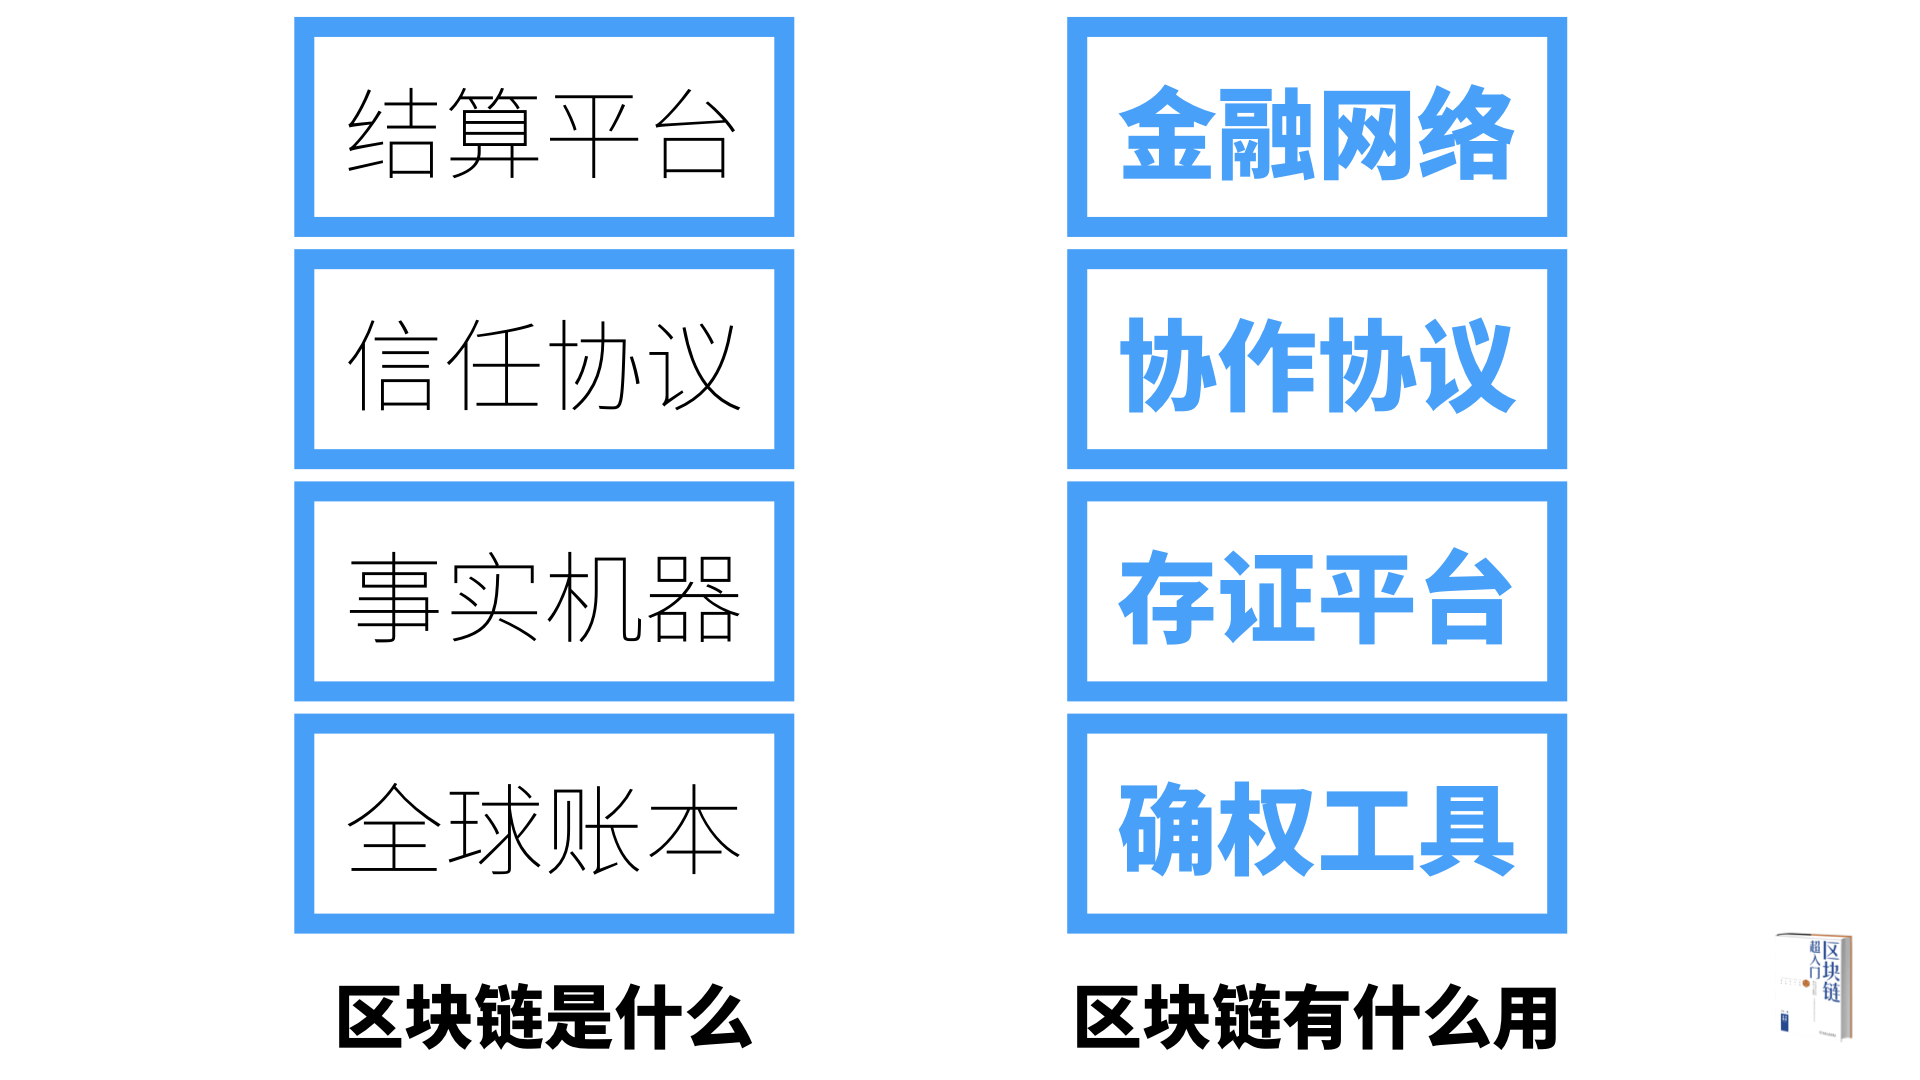
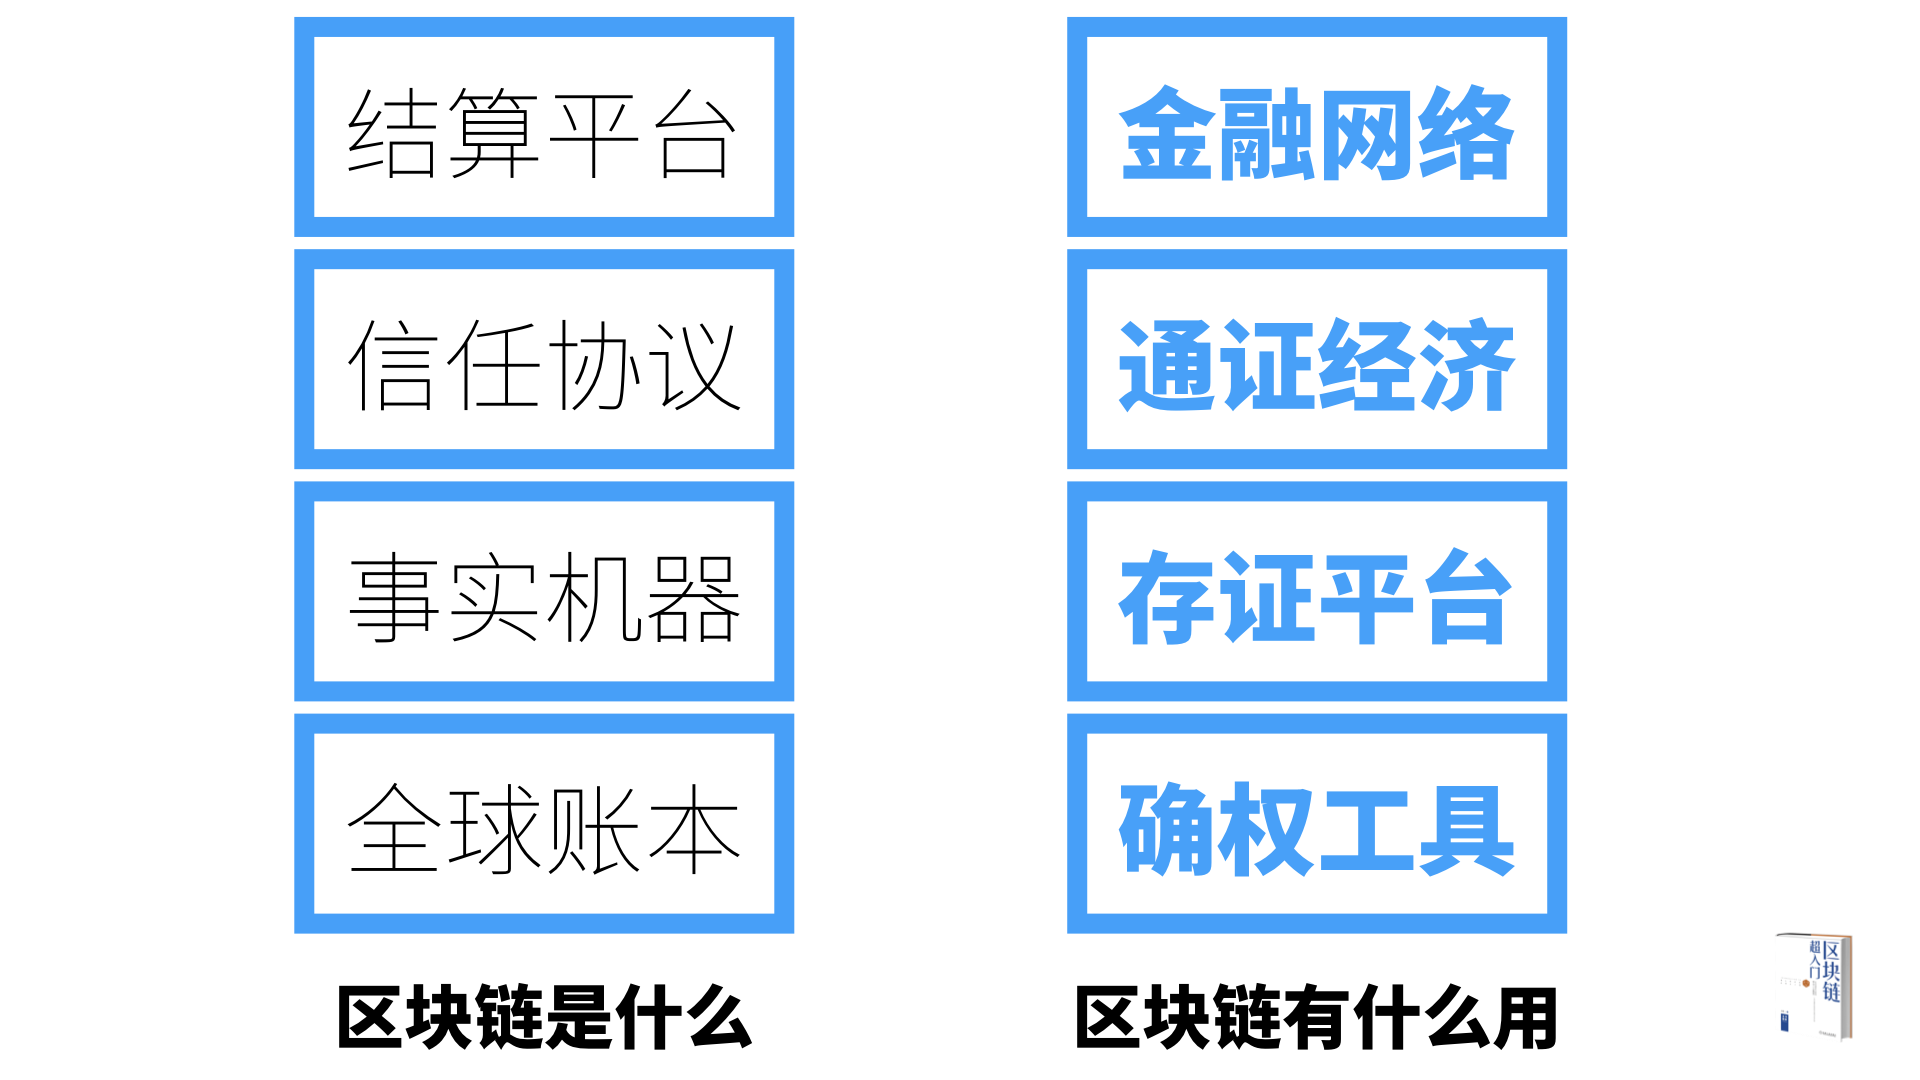
posts

Changed region(s): [[0.5625, 0.275, 0.8125, 0.3972]]

diff --git a/_posts/2019-01-19-how_to_use_blockchain.md b/_posts/2019-01-19-how_to_use_blockchain.md
@@ -27,7 +27,7 @@ image: assets/postimages/child-1864718_640.jpg
 
 - 区块链可做「确权工具」，
 - 区块链可做「存证平台」，
-- 区块链可做「协作协议」，
+- 区块链可做用于多方合作的「通证经济」应用，
 - 区块链可做数字资产与资金的「金融网络」。
 
 ## 确权工具
@@ -42,9 +42,9 @@ image: assets/postimages/child-1864718_640.jpg
 
 这些都有很多例子，法律方面有天平链，证照上链有深圳市政府做的 i 深圳证照上链项目，医疗方面有腾讯在安徽中国科大附属医院医疗体做的电子病历。
 
-## 协作协议
+## 通证经济
 
-区块链是信任协议，区块链可做协作协议。这里其实说的就是“通证经济”，用通证来做协作的工具。
+区块链是信任协议，区块链可做用于多方合作的「通证经济」应用，用通证来做协作的工具。
 
 通证经济就有更多的例子了，比方说，在全球范围内，技术类项目大多都是采用的发行通证的方式来进行大范围的股权众筹。比方说，在中国，我们可以用通证来在一个行业里取代积分、优惠券。
 
